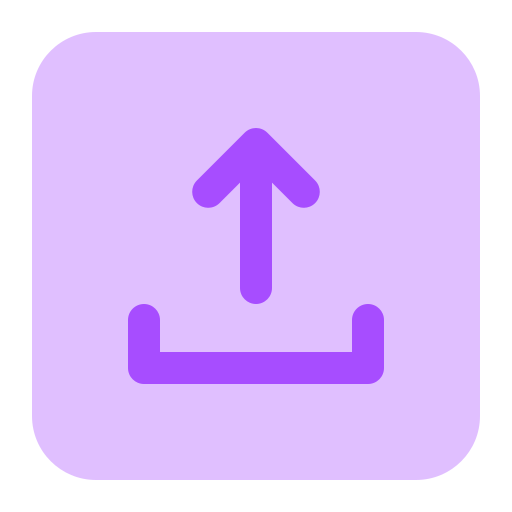
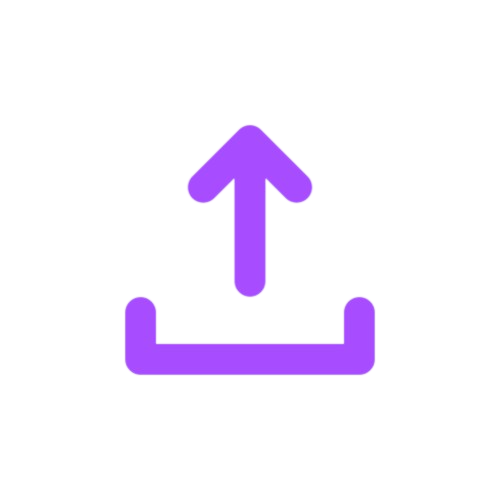
lottie

diff --git a/lib/AddPageDir/RentDir/rent_page.dart b/lib/AddPageDir/RentDir/rent_page.dart
@@ -203,7 +203,7 @@ class _RentPageState extends State<RentPage> {
                                     )
                                   : DecorationImage(
                                       image: AssetImage(
-                                          'assets/upload_icon-removebg-preview.png'),
+                                          'assets/upload_icon.png'),
                                       fit: BoxFit.contain,
                                     ),
                             ),

diff --git a/lib/AddPageDir/SellDir/sell_page.dart b/lib/AddPageDir/SellDir/sell_page.dart
@@ -190,7 +190,7 @@ class _SellPageState extends State<SellPage> {
                                     )
                                   : DecorationImage(
                                       image: AssetImage(
-                                          'assets/upload_icon-removebg-preview.png'),
+                                          'assets/upload_icon.png'),
                                       fit: BoxFit.contain,
                                     ),
                             ),

diff --git a/lib/Constants/image_string.dart b/lib/Constants/image_string.dart
@@ -10,7 +10,9 @@ const homepageRent = 'assets/images/rent_new.jpg';
 
 
 //Add Page
-const addpageSell = 'assets/images/buy_new.jpg';
-const addpageRent = 'assets/images/buy_new.jpg';
+const addPageSell = 'assets/sell_new.png';
+const addPageRent = 'assets/rent_new.png';
+const addPageUploadSign = 'assets/rent_new.png';
+
 
 
